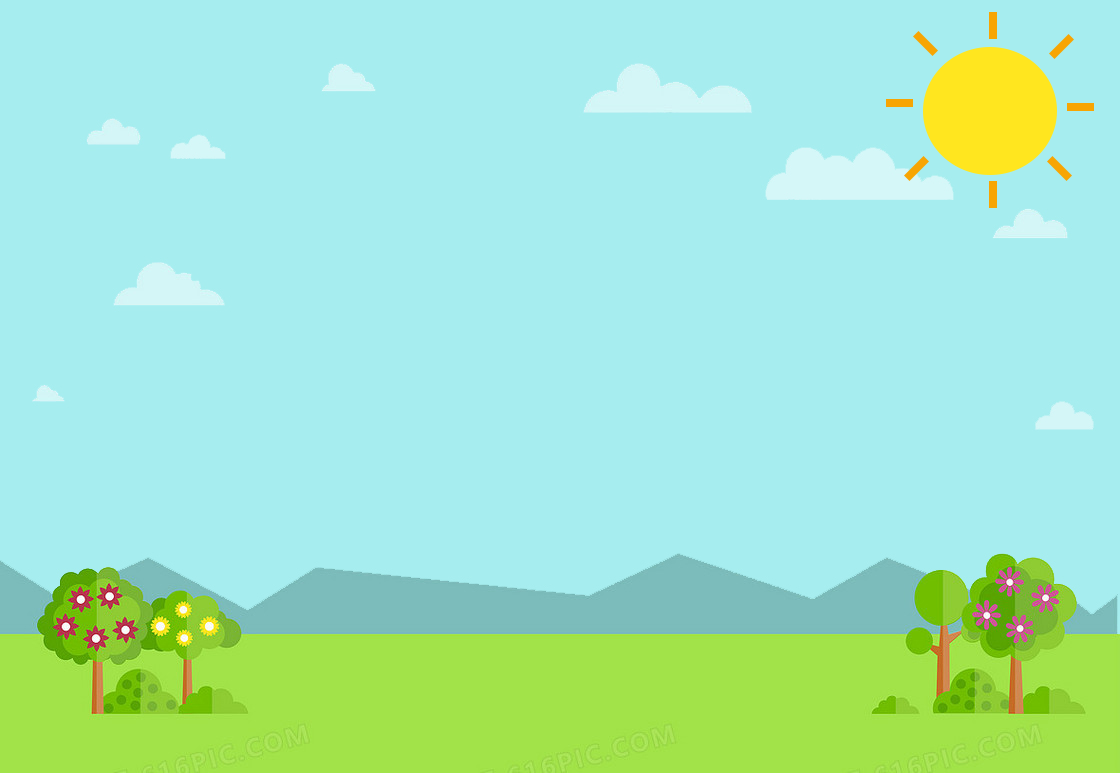
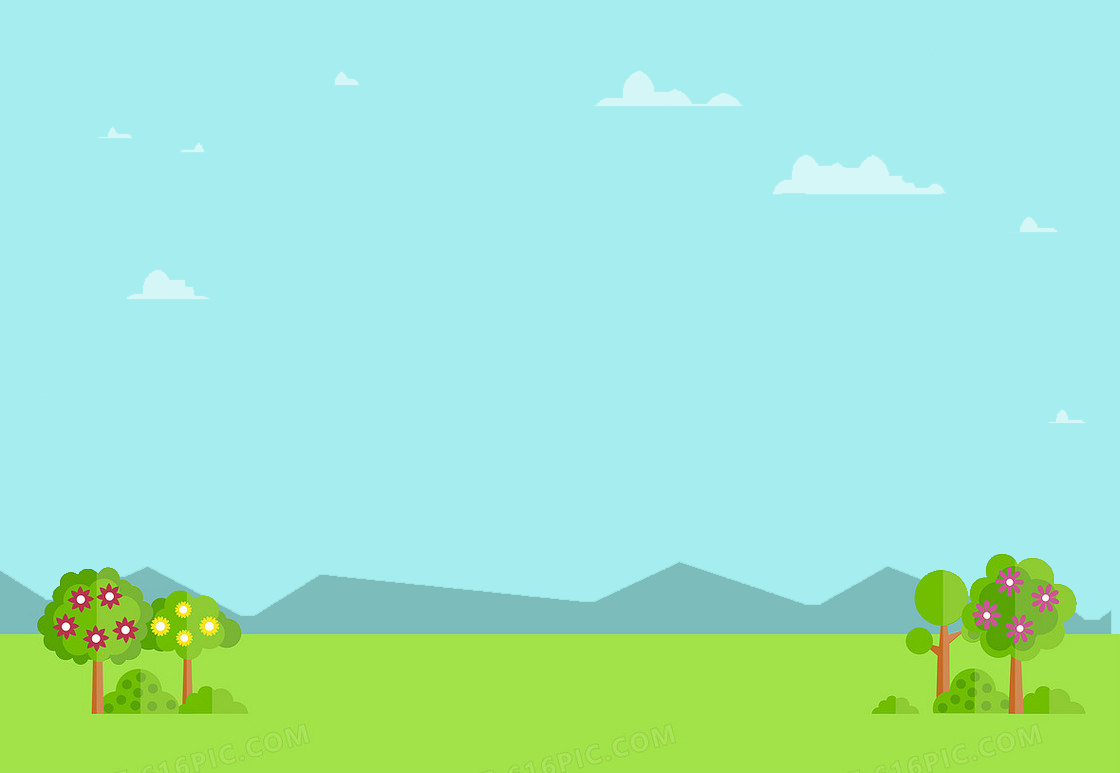
修改太陽位置

diff --git a/index.html b/index.html
@@ -14,6 +14,8 @@
 
 <body>
   <div id="game">
+    <div id="sun"><span id="text-time">00</span>
+    </div>
     <img src="./images/tree2.png" id="img" class="tree">
     <div id="btn-start">PLAY</div>
 
@@ -36,11 +38,10 @@
 
       <div id="his">
         <div>Best Record</div>
-        <div id="his-1"><span id="name">anonymous</span>/<span id="sor">0</span></div>
+        <div id="his-1"><span id="name">anonymous</span>/$<span id="sor">0</span></div>
 
       </div>
     </div>
-    <span id="text-time">00</span>
 
     <div id="zone"></div>
   </div>
@@ -107,7 +108,7 @@
       $('#current-score').text(currentScore)
 
       // 重設秒數
-      time = 5
+      time = 15
       $('#text-time').text(time)
 
       // 因為 setInterval 裡的 this 會指向 window，而不是點到的按鈕，所以先把 this 存起來
@@ -126,7 +127,7 @@
         const random = Math.ceil(Math.random() * 10)
 
         // 產生國父的機率
-        if (random > 1 && $('.father').length < 15) {
+        if (random > 3 && $('.father').length < 10) {
           // round:四捨五入
           const top = Math.round(Math.random() * 100) + '%'
           const left = Math.round(Math.random() * 100) + '%'
@@ -136,7 +137,7 @@
         }
 
         // 產生boy的機率
-        if (random > 5 && $('.boy').length < 5) {
+        if (random > 5 && $('.boy').length < 7) {
           const top = Math.round(Math.random() * 100) + '%'
           const left = Math.round(Math.random() * 100) + '%'
 
@@ -145,7 +146,7 @@
         }
 
         // 產生鳥的機率
-        if (random > 3 && $('.bird').length < 3) {
+        if (random > 6 && $('.bird').length < 3) {
           const top = Math.round(Math.random() * 100) + '%'
           const left = Math.round(Math.random() * 100) + '%'
           const bird = $(`<img src='./images/bird.png' class=bird style='top:${top};left:${left};transform:translate(-${left},-${top});'>`)

diff --git a/style.css b/style.css
@@ -16,7 +16,21 @@ body {
   user-select: none;
   /* 不能拖曳 */
   -webkit-user-drag: none;
+  display: flex;
+  flex-direction: row-reverse;
+  
 }
+#sun{
+  width: 25%;
+  height: 30%;
+  background:url(./images/sun.png) no-repeat center center;
+  display: flex;
+  align-items: center;
+  justify-content: center;
+  background-size: contain;
+}
+
+
 
 /* 遊戲範圍 */
 #zone {
@@ -153,7 +167,6 @@ body {
   font-size: calc(0.1rem + 1.5vw);
   display: flex;
   flex-direction: column;
-  /* align-items: flex-start !important; */
   background: rgba(255, 255, 0, 0.3);
   border-radius:0 0 20px 0 ;
 }
@@ -170,10 +183,6 @@ body {
 /* 秒數 */
 #text-time {
   font-size: calc(0.1rem + 4vw);
-  position: fixed;
-  top: 8%;
-  left: 74%;
-  transform: translate(-74%, -8%);
 }
 
 /*1920px 以上改變字體大小跟位置 */
